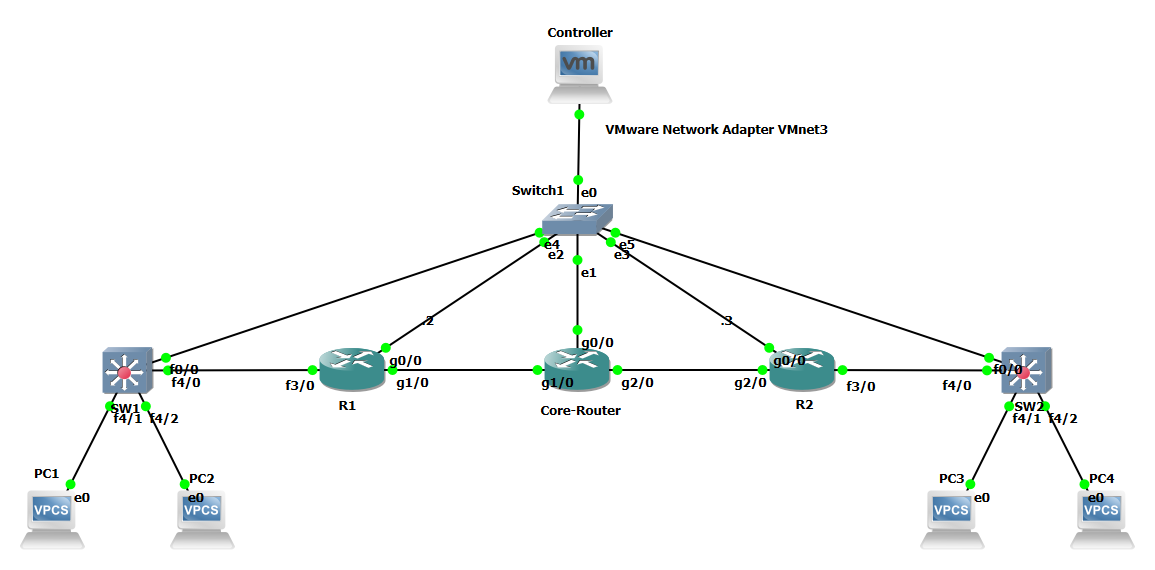
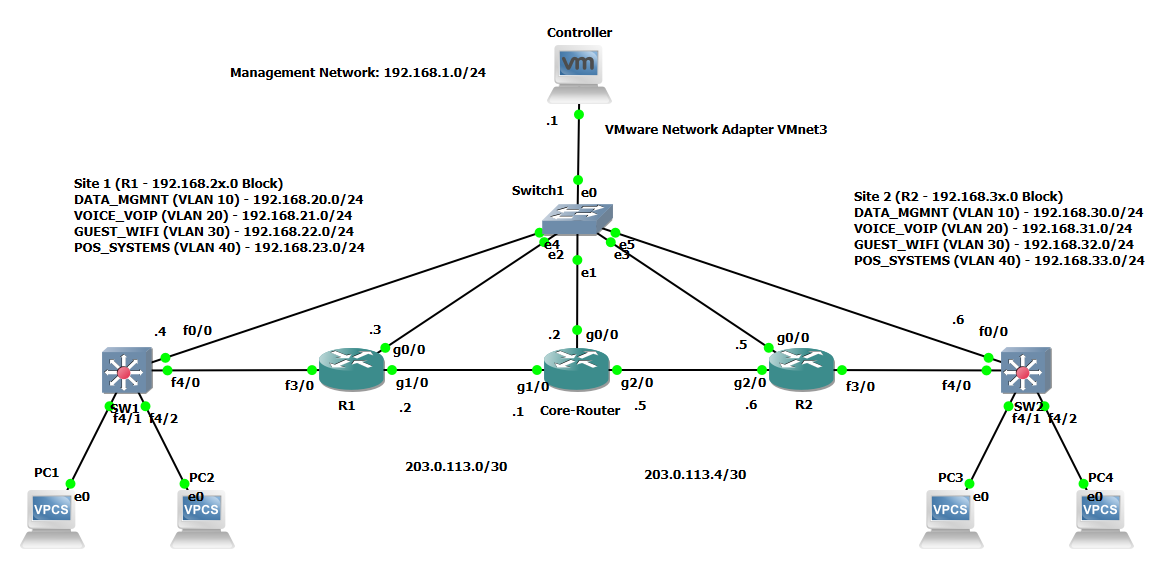
Update README.md, upload zero-day-config.txt and topology.png

diff --git a/README.md b/README.md
@@ -29,6 +29,16 @@ Group Assignment for WIC2005 PROGRAMMABLE NETWORK. This project automates the de
 
 ![Network Topology](images/topology.png)
 
+## 🔌 Day 0 Configuration (Bootstrap)
+Before running the automation scripts, every device must have a basic "Day 0" configuration manually applied via the console. This ensures the GNS3/EVE-NG controller can reach the devices via SSH.
+
+Copy and paste the configuration in [zero-day-config.txt](zero-day-config.txt).
+
+### Credentials used in this lab:
+- **Username:** admin
+- **Password:** cisco
+- **Enable Secret:** cisco
+
 ## 📦 Installation
 Clone the repository:
 
@@ -69,6 +79,31 @@ python3 deploy_network.py
 - OSPF Area 0 on WAN, Area 1 on Spoke LANs.
 - NAT/PAT configured on Spokes for Direct Internet Access (DIA).
 - IPSec VPN established directly between Site 1 and Site 2.
+
+### Network Configuration Overview
+This project automates a Hybrid Hub-and-Spoke network topology designed for enterprise connectivity. It integrates local switching, dynamic routing, direct internet access, and secure site-to-site tunneling.
+
+#### 1. Layer 2 Switching (Campus LAN)
+- VLAN Segmentation: Each branch site is segmented into four distinct VLANs: Data (10), Voice (20), Guest (30), and POS (40).
+- Trunking: Uplinks from Access Switches to Branch Routers use 802.1Q Encapsulation to carry tagged traffic.
+- Access Layer: Ports are statically assigned to VLANs, with PortFast enabled to bypass Spanning Tree listening states for end devices.
+
+##### 2. Layer 3 Routing (OSPF)
+Area Design:
+- Area 0 (Backbone): Connects the WAN links between the Core Router and Branch Routers (R1, R2).
+- Area 1 (Stub/Branch): Contains the local LAN subnets at each branch site.
+- WAN Adjacency: WAN links are configured as OSPF Point-to-Point networks to eliminate DR/BDR elections and speed up convergence.
+- Inter-VLAN Routing: Branch Routers perform Router-on-a-Stick (ROAS) using 802.1Q sub-interfaces to route traffic between local VLANs.
+
+3. Internet Edge (NAT/PAT)
+- Direct Internet Access (DIA): Branches do not backhaul internet traffic to HQ. Instead, they route directly to the ISP (simulated by the Core).
+- NAT Overload (PAT): Internal private IPs (RFC1918) are translated to the router's single public WAN IP using Port Address Translation, allowing multiple users to share one public identity.
+- Virtual Reassembly: IP Virtual Fragmentation Reassembly (VFR) is enabled to handle fragmented packets during translation.
+
+4. WAN Security (IPSec VPN)
+- Architecture: Direct Spoke-to-Spoke VPN. While the physical path goes through the Core, the logical tunnel is established directly between Site 1 and Site 2.
+- Encryption: Uses AES-256 for encryption and SHA-HMAC for integrity (IKEv1 / ISAKMP Group 14).
+- Traffic Filtering: Specific Access Control Lists (ACLs) ensure that VPN traffic is excluded from NAT and encapsulated into the tunnel immediately.
 
 ## 🔍 Verification
 
